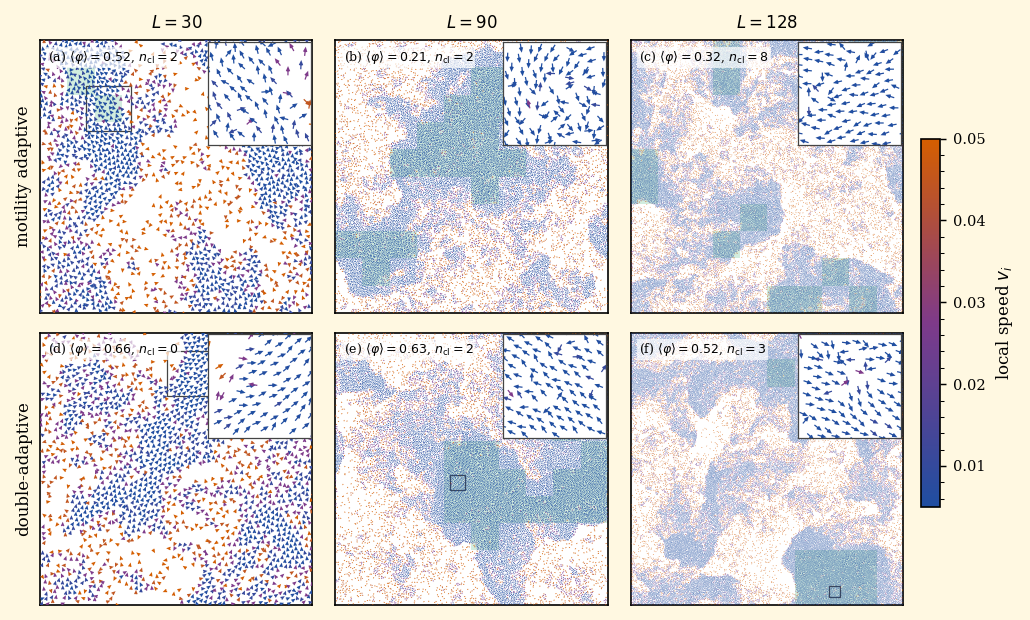
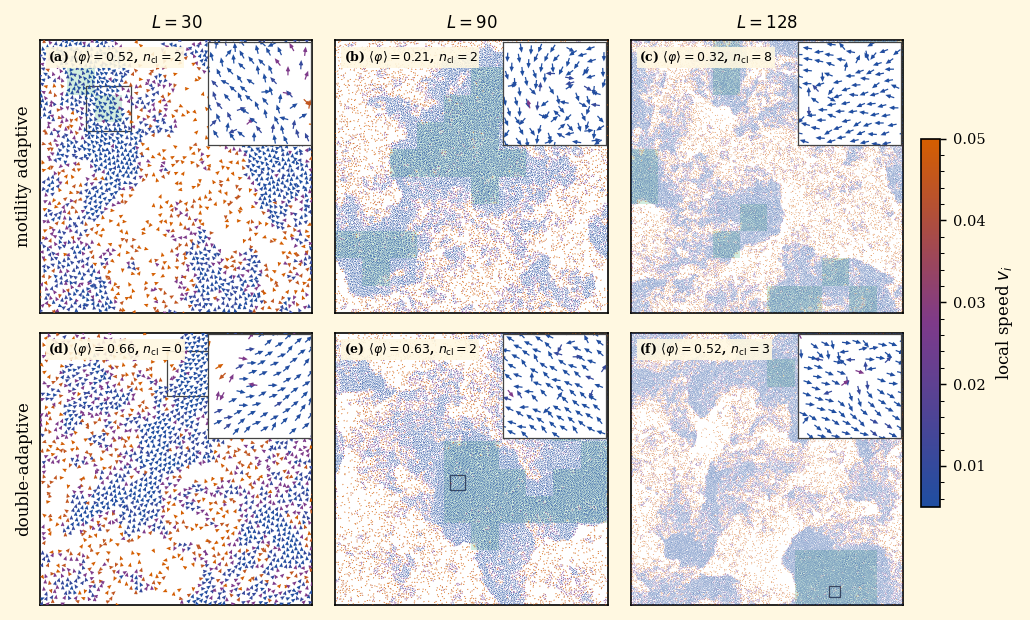
fig: Fig.7 cream-bold per-panel annotations
The per-panel (letter, <phi>, n_cl) annotation in the cluster-map
figure now sits on a cream background in bold, matching Fig.2.

diff --git a/src/make_figures.py b/src/make_figures.py
@@ -1441,8 +1441,8 @@ def fig_double_cluster_map(npz_path: Path):
                     fr"$\langle\varphi\rangle={phi[im, c]:.2f}$, "
                     fr"$n_{{\rm cl}}={n_clusters}$",
                     transform=ax.transAxes, fontsize=6,
-                    ha="left", va="top",
-                    bbox=dict(facecolor="white", alpha=0.7,
+                    fontweight="bold", ha="left", va="top",
+                    bbox=dict(facecolor=style.CREAM, alpha=0.9,
                               edgecolor="none", pad=1))
             if r == 0:
                 ax.set_title(fr"$L = {int(L)}$", fontsize=8)